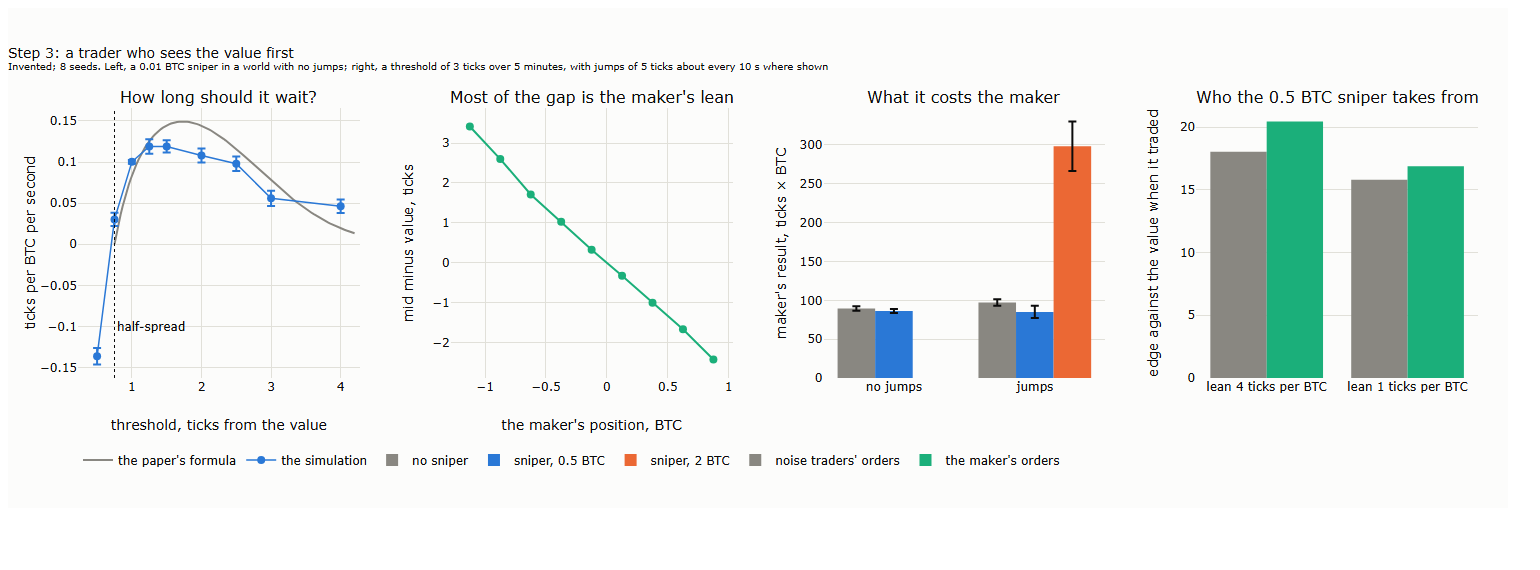
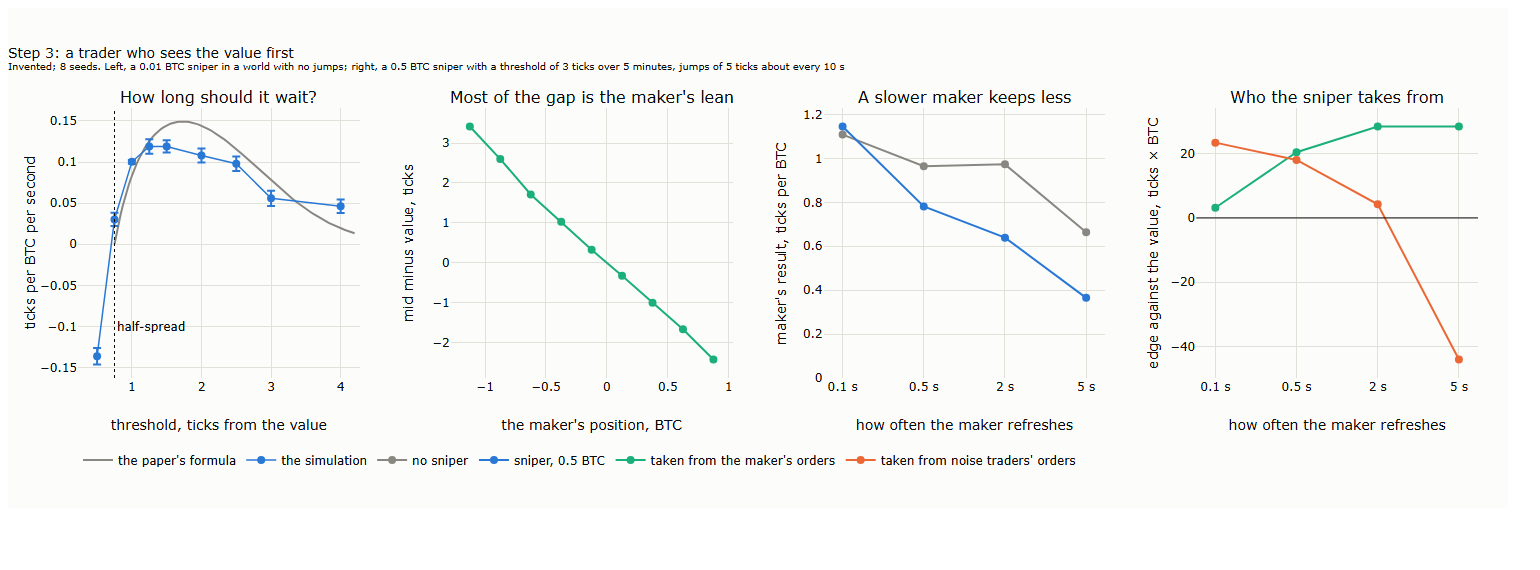
Lecture 22 teaching simulation, step 3: maker refresh speed with value jumps
The sniper's take from the maker grows as the maker refreshes more slowly.
Account tests are left out of the plan, since the course stays free.

diff --git a/lectures/22-a-market-that-reacts/scripts/l22_sim_step3.py b/lectures/22-a-market-that-reacts/scripts/l22_sim_step3.py
@@ -22,8 +22,8 @@ class Rec(Sim.Player):
         self.next_time = t + 100
 
 
-def world(seed, T, sn=None, lean=4.0, jump=0.0):
-    m = Sim.Market(seed=seed); m.band = -1; mm = Sim.MarketMaker(lean=lean); r = Rec(mm)
+def world(seed, T, sn=None, lean=4.0, jump=0.0, refresh=500):
+    m = Sim.Market(seed=seed); m.band = -1; mm = Sim.MarketMaker(lean=lean, refresh=refresh); r = Rec(mm)
     m.players += [Sim.Noise(limit=12.0, depth=8.0), Sim.FairValue(jump=jump, jump_rate=0.1 if jump else 0.0), Sim.Value(), mm, r] + ([sn] if sn else []); m.run(T)
     return m, mm, r
 
@@ -47,22 +47,31 @@ def compute():
             sn = Sim.Sniper(theta=th, size=size) if th else None; m, mm, _ = world(s, T, sn, lean, jump); mk.append(mm.cash + mm.pos * m.fair); mz.append(sum(t[2] for t in m.trades if t[5] == "market maker"))
             if sn: sr.append(sn.cash + sn.pos * m.fair); em.append(sn.edge.get("market maker", 0.0)); en.append(sn.edge.get("noise", 0.0))
         R["grid"].append(dict(lean=lean, jump=jump, size=size if th else 0.0, maker=float(np.mean(mk)), maker_se=float(np.std(mk) / len(mk) ** 0.5), per=float(np.sum(mk) / np.sum(mz)), sniper=float(np.mean(sr)) if sr else None, sniper_se=float(np.std(sr) / len(sr) ** 0.5) if sr else None, from_maker=float(np.mean(em)) if em else None, from_noise=float(np.mean(en)) if en else None)); print(R["grid"][-1], flush=True)
+    R["refresh"] = []
+    for rf in (100, 500, 2000, 5000):
+        for size in (0.0, 0.5):
+            mk, mz, sr, em, en = [], [], [], [], []
+            for s in SEEDS:
+                sn = Sim.Sniper(theta=3.0, size=size) if size else None; m, mm, _ = world(s, T, sn, 4.0, 5.0, rf); mk.append(mm.cash + mm.pos * m.fair); mz.append(sum(t[2] for t in m.trades if t[5] == "market maker"))
+                if sn: sr.append(sn.cash + sn.pos * m.fair); em.append(sn.edge.get("market maker", 0.0)); en.append(sn.edge.get("noise", 0.0))
+            R["refresh"].append(dict(refresh=rf, size=size, maker=float(np.mean(mk)), maker_se=float(np.std(mk) / len(mk) ** 0.5), per=float(np.sum(mk) / np.sum(mz)), sniper=float(np.mean(sr)) if sr else None, from_maker=float(np.mean(em)) if em else None, from_noise=float(np.mean(en)) if en else None)); print(R["refresh"][-1], flush=True)
     OUT.write_text(json.dumps(R, indent=1), encoding="utf-8")
     return R
 
 
 R = json.loads(OUT.read_text(encoding="utf-8")) if OUT.exists() and "--run" not in sys.argv else compute()
 a, sg, phi = R["alpha"], R["sg"], R["phi"]; uD = brentq(lambda u: u - phi / sg - 2 ** 0.5 * dawsn(u / 2 ** 0.5), phi / sg, 6); thD = uD * sg; print("alpha", round(a, 3), "s_G", round(sg, 3), "phi", round(phi, 3), "gamma", round(phi / sg, 2), "theta_D", round(thD, 2), "R2 gap on position", round(R["r2"], 2))
-fig = make_subplots(rows=1, cols=4, horizontal_spacing=0.065, subplot_titles=("How long should it wait?", "Most of the gap is the maker's lean", "What it costs the maker", "Who the 0.5 BTC sniper takes from"))
+fig = make_subplots(rows=1, cols=4, horizontal_spacing=0.065, subplot_titles=("How long should it wait?", "Most of the gap is the maker's lean", "A slower maker keeps less", "Who the sniper takes from"))
 tt = np.linspace(phi + 1e-3, 4.2, 120); fig.add_scatter(x=tt, y=2 * (tt - phi) / (np.pi / a * erfi(tt / sg / 2 ** 0.5)), mode="lines", line=dict(color=MUTED, width=2), name="the paper's formula", row=1, col=1)
 fig.add_scatter(x=R["theta"], y=R["rate"], error_y=dict(type="data", array=R["se"], color=BLUE), mode="markers+lines", line=dict(color=BLUE, width=1.5), marker=dict(color=BLUE, size=8), name="the simulation", row=1, col=1)
 fig.add_vline(x=phi, line=dict(color=INK, width=1, dash="dot"), row=1, col=1); fig.add_annotation(x=phi, y=-0.1, text="half-spread", xanchor="left", showarrow=False, row=1, col=1); fig.update_xaxes(title_text="threshold, ticks from the value", row=1, col=1); fig.update_yaxes(title_text="ticks per BTC per second", row=1, col=1)
 fig.add_scatter(x=R["pos"], y=R["gap"], mode="lines+markers", line=dict(color=GREEN, width=2), marker=dict(color=GREEN, size=8), showlegend=False, row=1, col=2); fig.update_xaxes(title_text="the maker's position, BTC", row=1, col=2); fig.update_yaxes(title_text="mid minus value, ticks", row=1, col=2)
-G = [g for g in R["grid"] if g["lean"] == 4.0]; lab = ["no jumps", "jumps"]
-for nm, sel, c in (("no sniper", 0.0, MUTED), ("sniper, 0.5 BTC", 0.5, BLUE), ("sniper, 2 BTC", 2.0, ORANGE)):
-    x = [g for g in G if g["size"] == sel]; fig.add_bar(x=[lab[g["jump"] > 0] for g in x], y=[g["maker"] for g in x], error_y=dict(type="data", array=[g["maker_se"] for g in x], color=INK), marker=dict(color=c, line=dict(width=0)), name=nm, row=1, col=3)
-fig.update_yaxes(title_text="maker's result, ticks × BTC", row=1, col=3)
-J = [g for g in R["grid"] if g["size"] == 0.5 and g["jump"] > 0]; xl = [f"lean {g['lean']:g} ticks per BTC" for g in J]
-fig.add_bar(x=xl, y=[g["from_noise"] for g in J], marker=dict(color=MUTED, line=dict(width=0)), name="noise traders' orders", row=1, col=4); fig.add_bar(x=xl, y=[g["from_maker"] for g in J], marker=dict(color=GREEN, line=dict(width=0)), name="the maker's orders", row=1, col=4); fig.update_yaxes(title_text="edge against the value when it traded", row=1, col=4)
-fig.update_layout(barmode="group", title="Step 3: a trader who sees the value first<br><sup>Invented; 8 seeds. Left, a 0.01 BTC sniper in a world with no jumps; right, a threshold of 3 ticks over 5 minutes, with jumps of 5 ticks about every 10 s where shown</sup>", height=500, width=1500, margin=dict(t=100, l=70, r=30, b=130), legend=dict(orientation="h", y=-0.25, x=0))
+Rf = R["refresh"]; rl = [f"{g['refresh'] / 1000:g} s" for g in Rf if g["size"] == 0]
+for nm, sel, c in (("no sniper", 0.0, MUTED), ("sniper, 0.5 BTC", 0.5, BLUE)):
+    fig.add_scatter(x=rl, y=[g["per"] for g in Rf if g["size"] == sel], mode="lines+markers", line=dict(color=c, width=2), marker=dict(color=c, size=8), name=nm, row=1, col=3)
+fig.update_xaxes(title_text="how often the maker refreshes", row=1, col=3); fig.update_yaxes(title_text="maker's result, ticks per BTC", rangemode="tozero", row=1, col=3)
+J = [g for g in Rf if g["size"] == 0.5]
+fig.add_scatter(x=rl, y=[g["from_maker"] for g in J], mode="lines+markers", line=dict(color=GREEN, width=2), marker=dict(color=GREEN, size=8), name="taken from the maker's orders", row=1, col=4); fig.add_scatter(x=rl, y=[g["from_noise"] for g in J], mode="lines+markers", line=dict(color=ORANGE, width=2), marker=dict(color=ORANGE, size=8), name="taken from noise traders' orders", row=1, col=4)
+fig.add_hline(y=0, line=dict(color=INK, width=1), row=1, col=4); fig.update_xaxes(title_text="how often the maker refreshes", row=1, col=4); fig.update_yaxes(title_text="edge against the value, ticks × BTC", row=1, col=4)
+fig.update_layout(barmode="group", title="Step 3: a trader who sees the value first<br><sup>Invented; 8 seeds. Left, a 0.01 BTC sniper in a world with no jumps; right, a 0.5 BTC sniper with a threshold of 3 ticks over 5 minutes, jumps of 5 ticks about every 10 s</sup>", height=500, width=1500, margin=dict(t=100, l=70, r=30, b=130), legend=dict(orientation="h", y=-0.25, x=0))
 save_figure(fig, L.PREFIX + "22_sim_step3", L.FIG)

diff --git a/lectures/22-a-market-that-reacts/results/hypotheses.md b/lectures/22-a-market-that-reacts/results/hypotheses.md
@@ -129,7 +129,7 @@ A small simulated market written for this lecture, to show the mechanics. Invent
 
 **The footprint chart.** One panel per player, drawn from the simulation with each player's orders coloured, since there we know who did what: size at each price over time, with the trades on top. Beneath it, the same seconds as the public feed shows them, colours gone. Then, for each player, a real moment from Bybit with the same shape, labelled as looking alike, not as that player.
 
-**What rests on what.** Each footprint in the lecture is labelled by its support. From the literature: the player types, and stale quotes as a cost to the maker. From exchange documents: Bybit's TWAP default of 30 s. Our own measures, not validated by any source we found: two-sided pulses, the clock of the changes, and every setting of the simulation. A test on a venue that shows accounts (Hyperliquid's fills carry wallets) is an open option, and has not been run.
+**What rests on what.** Each footprint in the lecture is labelled by its support. From the literature: the player types, and stale quotes as a cost to the maker. From exchange documents: Bybit's TWAP default of 30 s. Our own measures, not validated by any source we found: two-sided pulses, the clock of the changes, and every setting of the simulation. A test against accounts is left out: it would need paid data, and the course stays free to reproduce. So these measures stay labelled as unvalidated.
 
 **The aim is styles, not names.** The question is not who a trader is. It is how large each style's share is, how the shares change over time, when a style can be expected to come in, and whether one style sets off another. Only footprints of behaviour are measured, each labelled as such; a round trip or one trader's sliced order cannot be followed without accounts.
 
